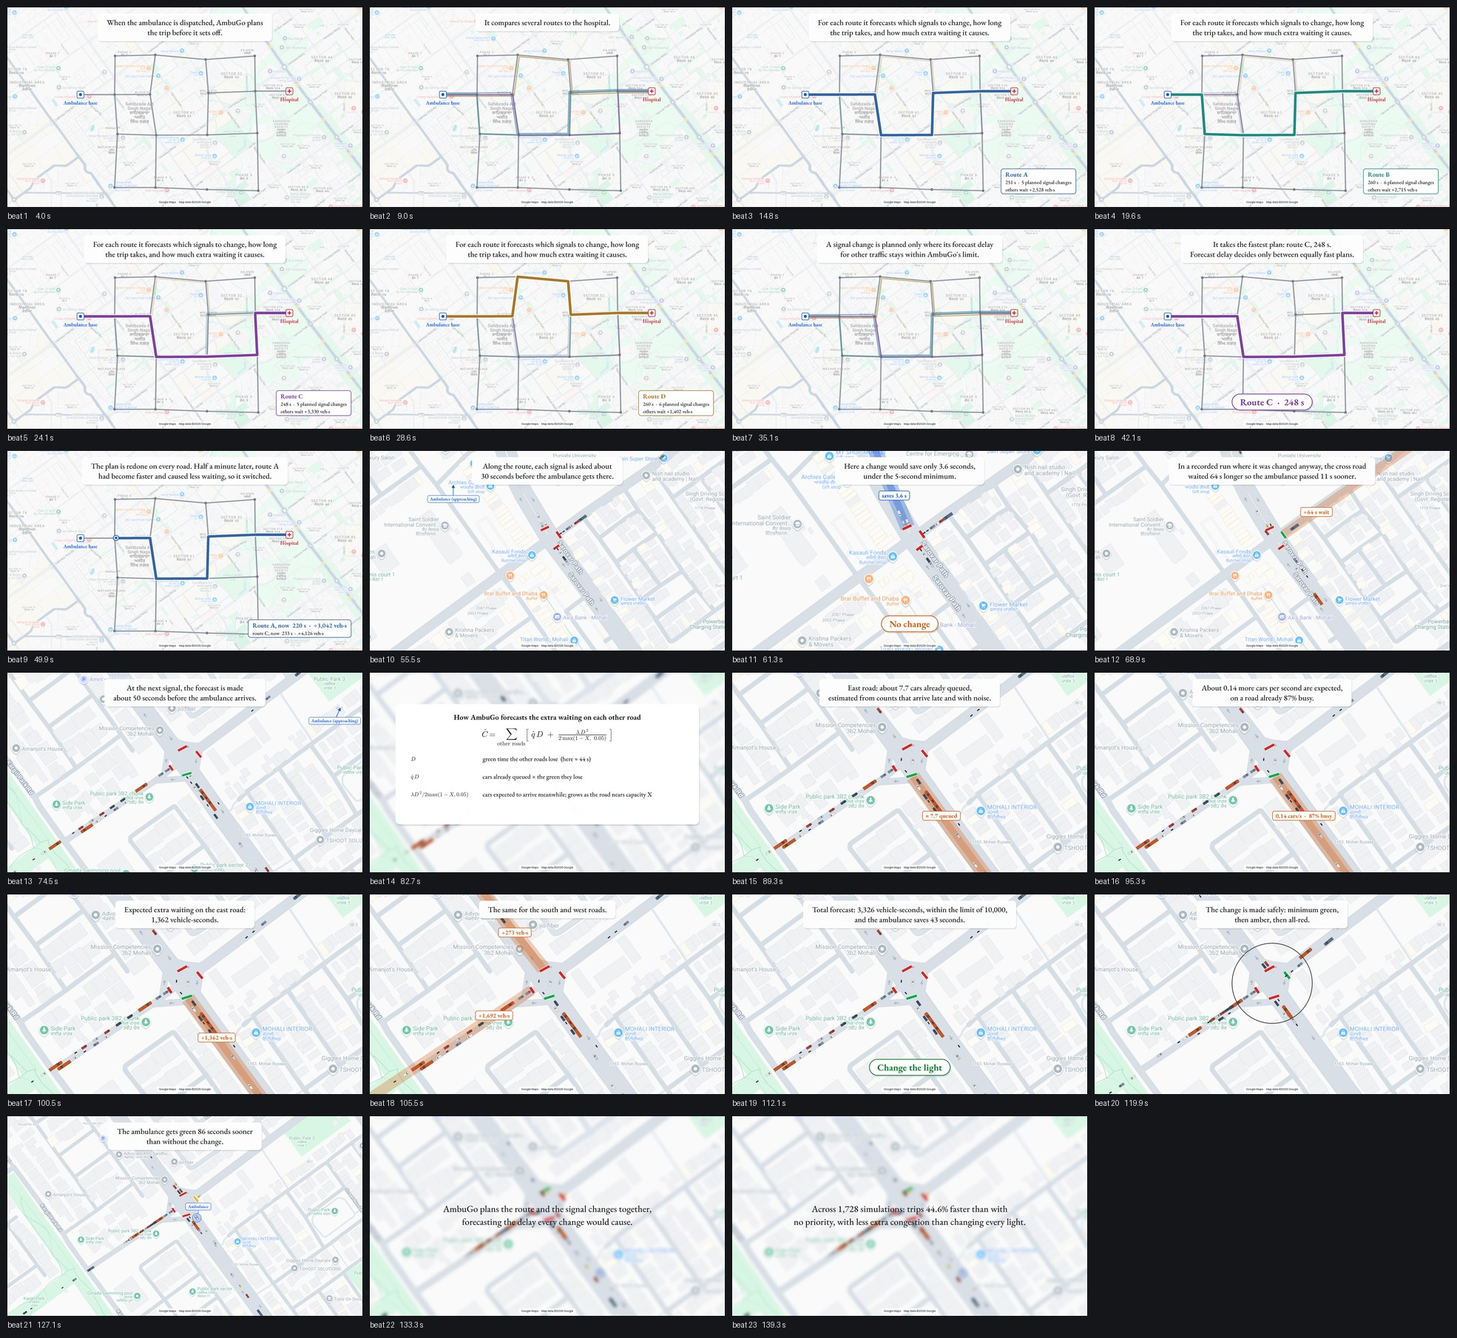
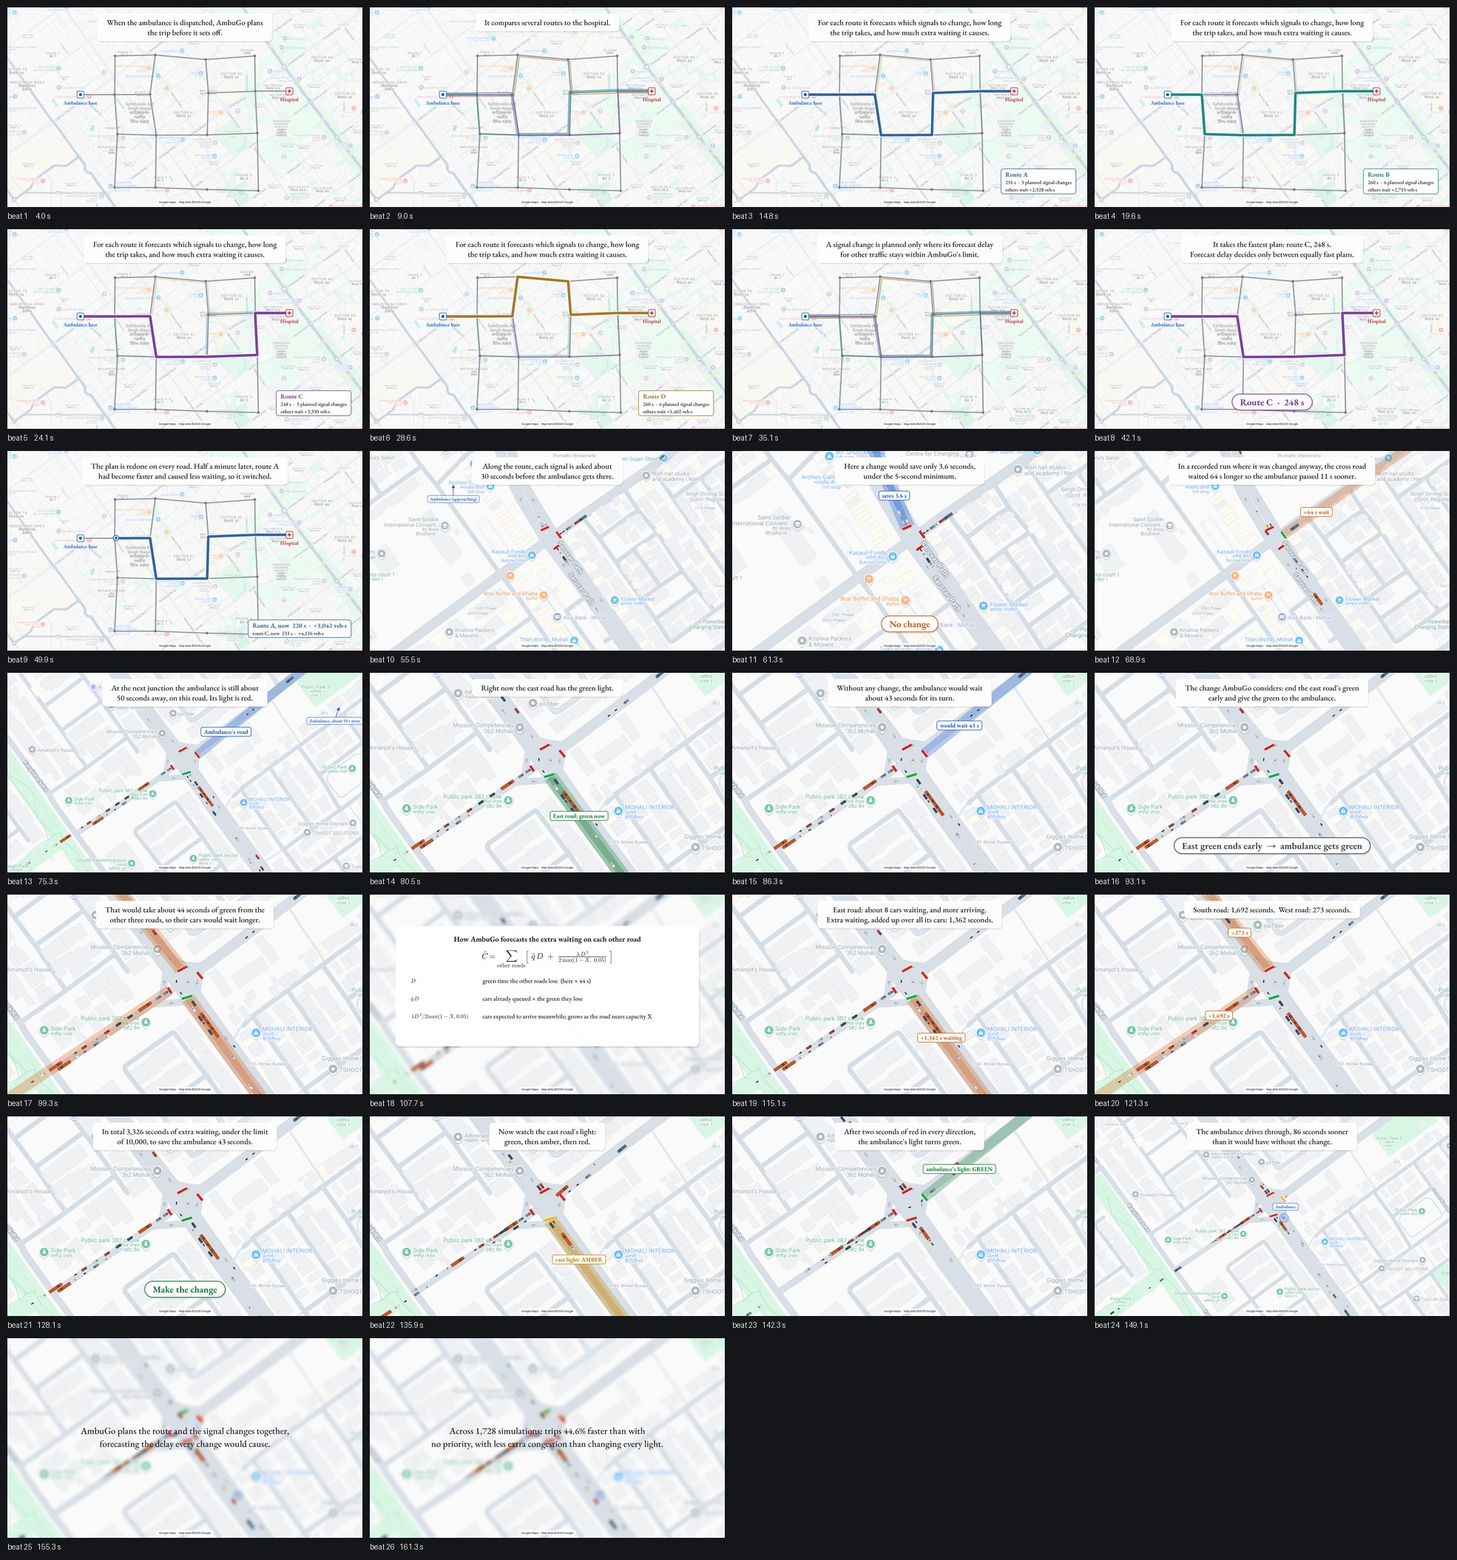
Plan film: rebuild Junction 2 in plain steps
Say where the ambulance is and that its light is red, that the east road has
green, what the change is (end east green early, give green to the
ambulance), its cost per road in seconds of waiting, then watch each light
switch with a live label. 5 new verifier checks (219 total).

Claude-Session: https://claude.ai/code/session_01LNKoc6Xn7SKC3VVHUyjiFx

diff --git a/ambugo_explainer/v9/planfilm.py b/ambugo_explainer/v9/planfilm.py
@@ -96,27 +96,38 @@ class Plan(Simple):
             M(8, "J11", "P2", [(0, 4091), (.8, 4170), (1, 4170)], ["In a recorded run where it was changed anyway, the cross road",
                                                                    "waited 64 s longer so the ambulance passed 11 s sooner."],
               [("road", J1_CROSS, COST, "+64 s wait")], zoom=1.05),
-            # ------------------------------------------------ junction 2: the delay forecast, one term at a time
-            M(5, "J21", "P3", [(0, 4120), (1, 4132)], ["At the next signal, the forecast is made", "about 50 seconds before the ambulance arrives."],
-              [("amb", "Ambulance")], zoom=1.05),
+            # ------------------------------------------------ junction 2: what the change is, what it costs, then watch it
+            M(6, "J21", "P3", [(0, 4118), (1, 4132)], ["At the next junction the ambulance is still about",
+                                                       "50 seconds away, on this road. Its light is red."],
+              [("road", J2_AMB, AMB, "Ambulance's road"), ("amb", "Ambulance", "Ambulance, about 50 s away")], zoom=.95),
+            M(5, "J21", "P3", [(0, 4132), (1, 4132)], ["Right now the east road has the green light."],
+              [("road", J2_EAST, GAIN, "East road: green now")]),
+            M(6, "J21", "P3", [(0, 4132), (1, 4132)], ["Without any change, the ambulance would wait",
+                                                       f"about {g2['nominal_wait']:.0f} seconds for its turn."],
+              [("road", J2_AMB, AMB, f"would wait {g2['nominal_wait']:.0f} s")]),
+            M(7, "J21", "P3", [(0, 4132), (1, 4132)], ["The change AmbuGo considers: end the east road's green",
+                                                       "early and give the green to the ambulance."],
+              verdict=("East green ends early  →  ambulance gets green", (70, 74, 80))),
+            M(6, "J21", "P3", [(0, 4132), (1, 4132)], [f"That would take about {g2['D']:.0f} seconds of green from the",
+                                                       "other three roads, so their cars would wait longer."],
+              [("road", J2_EAST, COST, None), ("road", J2_SOUTH, COST, None), ("road", J2_WEST, COST, None)]),
             M(9, "J21", "P3", [(0, 4132), (1, 4132)], [], card=True, eq=True),
-            M(6, "J21", "P3", [(0, 4132), (1, 4132)], [f"East road: about {E['q_hat']:.1f} cars already queued,",
-                                                       "estimated from counts that arrive late and with noise."],
-              [("road", J2_EAST, COST, f"≈ {E['q_hat']:.1f} queued")]),
-            M(6, "J21", "P3", [(0, 4132), (1, 4132)], [f"About {E['lam']:.2f} more cars per second are expected,",
-                                                       f"on a road already {E['X'] * 100:.0f}% busy."],
-              [("road", J2_EAST, COST, f"{E['lam']:.2f} cars/s  ·  {E['X'] * 100:.0f}% busy")]),
-            M(5, "J21", "P3", [(0, 4132), (1, 4132)], ["Expected extra waiting on the east road:",
-                                                       f"{E['term_queue'] + E['term_arrival']:,.0f} vehicle-seconds."],
-              [("road", J2_EAST, COST, f"+{E['term_queue'] + E['term_arrival']:,.0f} veh·s")]),
-            M(5, "J21", "P3", [(0, 4132), (1, 4132)], ["The same for the south and west roads."],
-              [("road", J2_SOUTH, COST, f"+{arms[J2_SOUTH]['term_queue'] + arms[J2_SOUTH]['term_arrival']:,.0f} veh·s"),
-               ("road", J2_WEST, COST, f"+{arms[J2_WEST]['term_queue'] + arms[J2_WEST]['term_arrival']:,.0f} veh·s")]),
-            M(7, "J21", "P3", [(0, 4132), (1, 4132)], [f"Total forecast: {g2['burden']:,.0f} vehicle-seconds, within the limit of 10,000,",
-                                                       f"and the ambulance saves {g2['benefit']:.0f} seconds."],
-              verdict=("Change the light", GAIN)),
-            M(8, "J21", "P3", [(0, 4132), (1, 4146)], ["The change is made safely: minimum green,", "then amber, then all-red."], [("junction", None)]),
-            M(7, "J21", "P3", [(0, 4146), (1, 4180)], ["The ambulance gets green 86 seconds sooner", "than without the change."],
+            M(7, "J21", "P3", [(0, 4132), (1, 4132)], [f"East road: about {E['q_hat']:.0f} cars waiting, and more arriving.",
+                                                       f"Extra waiting, added up over all its cars: {E['term_queue'] + E['term_arrival']:,.0f} seconds."],
+              [("road", J2_EAST, COST, f"+{E['term_queue'] + E['term_arrival']:,.0f} s waiting")]),
+            M(6, "J21", "P3", [(0, 4132), (1, 4132)],
+              [f"South road: {arms[J2_SOUTH]['term_queue'] + arms[J2_SOUTH]['term_arrival']:,.0f} seconds.  "
+               f"West road: {arms[J2_WEST]['term_queue'] + arms[J2_WEST]['term_arrival']:,.0f} seconds."],
+              [("road", J2_SOUTH, COST, f"+{arms[J2_SOUTH]['term_queue'] + arms[J2_SOUTH]['term_arrival']:,.0f} s"),
+               ("road", J2_WEST, COST, f"+{arms[J2_WEST]['term_queue'] + arms[J2_WEST]['term_arrival']:,.0f} s")]),
+            M(7, "J21", "P3", [(0, 4132), (1, 4132)], [f"In total {g2['burden']:,.0f} seconds of extra waiting, under the limit",
+                                                       f"of 10,000, to save the ambulance {g2['benefit']:.0f} seconds."],
+              verdict=("Make the change", GAIN)),
+            M(8, "J21", "P3", [(0, 4132), (1, 4141.5)], ["Now watch the east road's light:", "green, then amber, then red."],
+              [("road", J2_EAST, lambda t: self.light(J2_EAST, t)[1], lambda t: f"east light: {self.light(J2_EAST, t)[0]}")]),
+            M(6, "J21", "P3", [(0, 4141.5), (1, 4146)], ["After two seconds of red in every direction,", "the ambulance's light turns green."],
+              [("road", J2_AMB, lambda t: self.light(J2_AMB, t)[1], lambda t: f"ambulance's light: {self.light(J2_AMB, t)[0]}")]),
+            M(7, "J21", "P3", [(0, 4146), (1, 4180)], ["The ambulance drives through, 86 seconds sooner", "than it would have without the change."],
               [("amb", "Ambulance")], zoom=.85),
             # ------------------------------------------------ close
             M(6, "J21", "P3", [(0, 4180), (1, 4180)], [], card=["AmbuGo plans the route and the signal changes together,",
@@ -133,6 +144,14 @@ class Plan(Simple):
             s["ov"], s["key"] = None, "beat"
         self.scenes = S
         self._netbg = None
+
+    def light(self, e, t, j="J21", run="P3"):
+        mode, served, el, rq = self.runs[run].signal(j, t)
+        if served == e and mode == "green":
+            return "GREEN", (24, 128, 56)
+        if served == e and mode == "amber":
+            return "AMBER", (196, 132, 0)
+        return "RED", (197, 34, 31)
 
     # ------------------------------------------------------------------ the planning diagram
     def net_xy(self, xy):

diff --git a/ambugo_explainer/v9/verify.py b/ambugo_explainer/v9/verify.py
@@ -439,6 +439,17 @@ check("plan", "east road busy (X, %)", 87, 100 * {x["edge"]: x for x in gates[(4
 check("plan", "east arrivals shown (cars/s)", 0.14, {x["edge"]: x for x in gates[(4132, "J21")]["arms"]}["E_J22_J21"]["lam"], "gates.json", .005)
 check("plan", "green lost D shown (s)", 44, gates[(4132, "J21")]["D"], "gates.json", .5)
 
+# ------------------------------------------------------------------ plan film, junction 2 (plain-language beats)
+gg = gates[(4132, "J21")]
+ag = {x["edge"]: x for x in gg["arms"]}
+check("plan-J2", "east road 'about 8 cars waiting' (q̂ rounded)", 8, round(ag["E_J22_J21"]["q_hat"]), "gates.json", 0)
+check("plan-J2", "east road has green at the decision", "E_J22_J21", gg["signal_edge"], "gates.json")
+check("plan-J2", "ambulance 'about 50 s away' (free-flow ETA)", 50, gg["arrival"], "gates.json", 3)
+check("plan-J2", "all-red lasts 2 s before the ambulance's green", 2,
+      first(sg, "J21", 4132, "green", "E_J11_J21") - first(sg, "J21", 4132, "allred"), "P3 signals.json", 0)
+check("plan-J2", "ambulance's light red during 4118–4132", True,
+      all(not (sg.get((t, "J21"), (None, None))[0] == "green" and sg[(t, "J21")][1] == "E_J11_J21") for t in range(4118, 4133)), "P3 signals.json")
+
 # ------------------------------------------------------------------ report
 fails = [c for c in checks if not c["ok"]]
 out = HERE / "reports"

diff --git a/ambugo_explainer/v9/simplefilm.py b/ambugo_explainer/v9/simplefilm.py
@@ -157,7 +157,8 @@ class Simple(MapFilm):
         run = self.runs[sc["run"]]
         a_in = ease(min(1.0, u * sc["dur"] / .45))                 # every beat fades its own overlay in
         v, to, wp = self.mpane(sc, t, zoom)
-        for h in sc["hl"]:
+        hls = [tuple(x(t) if callable(x) else x for x in h) for h in sc["hl"]]     # labels/colours may follow the clock
+        for h in hls:
             if h[0] == "road":
                 self.road_glow(v, wp, to, h[1], h[2], a_in)
         self.bars(v, wp, run, sc["j"], t, to, zoom)
@@ -168,11 +169,12 @@ class Simple(MapFilm):
         ui = View(W, H, 0, 0, 1)
         ui.im = Image.new("RGBA", (W * SS, H * SS), (0, 0, 0, 0))
         ui.d = ImageDraw.Draw(ui.im)
-        for h in sc["hl"]:
+        for h in hls:
             if h[0] == "road" and h[3]:
                 self.road_label(ui, wp, to, h[1], h[2], h[3], a_in)
             elif h[0] == "amb":
-                self.amb_tag(ui, v, to, sc["j"], sc["run"], t, h[1], a_in, off_text="Ambulance (approaching)")
+                self.amb_tag(ui, v, to, sc["j"], sc["run"], t, h[1], a_in,
+                             off_text=h[2] if len(h) > 2 else "Ambulance (approaching)")
             elif h[0] == "junction":
                 p = to(wp.C)
                 r = 190 * zoom

diff --git a/ambugo_explainer/v9/reports/PLAN_STORYBOARD.md b/ambugo_explainer/v9/reports/PLAN_STORYBOARD.md
@@ -1,6 +1,6 @@
 # AmbuGo v9 plan film: storyboard and voiceover
 
-* **File:** `output/AmbuGo_v9_Plan.mp4`, 1920×1080, 30 fps, 2:20.5 (140.5 s), no audio. Render it with `python3 planfilm.py --jobs 4`.
+* **File:** `output/AmbuGo_v9_Plan.mp4`, 1920×1080, 30 fps, 2:42.5 (162.5 s), no audio. Render it with `python3 planfilm.py --jobs 4`.
 * **What it adds over the simple cut:**
   * the trip is planned at dispatch: route and signal changes are chosen together, using the delay forecast;
   * the forecast model itself (Eq. 20) is shown term by term with the logged values.
@@ -29,23 +29,26 @@
 | 10 | 0:51.5–0:56.5 | Junction 1 map, 4,079 → 4,091 | Along the route, each signal is asked about 30 seconds before the ambulance gets there. | ambulance |
 | 11 | 0:56.5–1:02.5 | J1, paused | Here a change would save only 3.6 seconds, under the 5-second minimum. | ambulance's road "saves 3.6 s" + verdict "No change" |
 | 12 | 1:02.5–1:10.5 | J1, JFAST run 4,091 → 4,170 | In a recorded run where it was changed anyway, the cross road waited 64 s longer so the ambulance passed 11 s sooner. | cross road "+64 s wait" |
-| 13 | 1:10.5–1:15.5 | Junction 2 map, 4,120 → 4,132 | At the next signal, the forecast is made about 50 seconds before the ambulance arrives. | ambulance |
-| 14 | 1:15.5–1:24.5 | card over blurred map | (card) How AmbuGo forecasts the extra waiting on each other road: Eq. 20, with D (green lost, ≈ 44 s), q̂·D (cars queued × green lost), λD²/2max(1−X, 0.05) (expected arrivals, growing as the road nears capacity) | the card |
-| 15 | 1:24.5–1:30.5 | J2, paused 4,132 | East road: about 7.7 cars already queued, estimated from counts that arrive late and with noise. | east road "≈ 7.7 queued" |
-| 16 | 1:30.5–1:36.5 | J2 | About 0.14 more cars per second are expected, on a road already 87% busy. | east road "0.14 cars/s · 87% busy" |
-| 17 | 1:36.5–1:41.5 | J2 | Expected extra waiting on the east road: 1,362 vehicle-seconds. | east road "+1,362 veh·s" |
-| 18 | 1:41.5–1:46.5 | J2 | The same for the south and west roads. | south "+1,692", west "+273" |
-| 19 | 1:46.5–1:53.5 | J2 | Total forecast: 3,326 vehicle-seconds, within the limit of 10,000, and the ambulance saves 43 seconds. | verdict "Change the light" |
-| 20 | 1:53.5–2:01.5 | J2, 4,132 → 4,146 | The change is made safely: minimum green, then amber, then all-red. | junction ring |
-| 21 | 2:01.5–2:08.5 | J2, 4,146 → 4,180 | The ambulance gets green 86 seconds sooner than without the change. | ambulance |
-| 22 | 2:08.5–2:14.5 | blurred | AmbuGo plans the route and the signal changes together, forecasting the delay every change would cause. | — |
-| 23 | 2:14.5–2:20.5 | blurred | Across 1,728 simulations: trips 44.6% faster than with no priority, with less extra congestion than changing every light. | — |
+| 13 | 1:10.5–1:16.5 | Junction 2 map, 4,118 → 4,132 | At the next junction the ambulance is still about 50 seconds away, on this road. Its light is red. | ambulance's road (blue) + edge marker "Ambulance, about 50 s away" |
+| 14 | 1:16.5–1:21.5 | J2, paused 4,132 | Right now the east road has the green light. | east road (green), "East road: green now" |
+| 15 | 1:21.5–1:27.5 | J2 | Without any change, the ambulance would wait about 43 seconds for its turn. | ambulance's road, "would wait 43 s" |
+| 16 | 1:27.5–1:34.5 | J2 | The change AmbuGo considers: end the east road's green early and give the green to the ambulance. | pill "East green ends early → ambulance gets green" |
+| 17 | 1:34.5–1:40.5 | J2 | That would take about 44 seconds of green from the other three roads, so their cars would wait longer. | the three other roads (orange) |
+| 18 | 1:40.5–1:49.5 | card over blurred map | (card) How AmbuGo forecasts the extra waiting on each other road: Eq. 20, with each term in words | the card |
+| 19 | 1:49.5–1:56.5 | J2 | East road: about 8 cars waiting, and more arriving. Extra waiting, added up over all its cars: 1,362 seconds. | east road, "+1,362 s waiting" |
+| 20 | 1:56.5–2:02.5 | J2 | South road: 1,692 seconds. West road: 273 seconds. | south and west roads |
+| 21 | 2:02.5–2:09.5 | J2 | In total 3,326 seconds of extra waiting, under the limit of 10,000, to save the ambulance 43 seconds. | verdict "Make the change" |
+| 22 | 2:09.5–2:17.5 | J2, 4,132 → 4,141.5 (≈1.2×) | Now watch the east road's light: green, then amber, then red. | east road, coloured by its live light; label "east light: GREEN / AMBER / RED" |
+| 23 | 2:17.5–2:23.5 | J2, 4,141.5 → 4,146 | After two seconds of red in every direction, the ambulance's light turns green. | ambulance's road, label "ambulance's light: RED / GREEN" |
+| 24 | 2:23.5–2:30.5 | J2, 4,146 → 4,180 | The ambulance drives through, 86 seconds sooner than it would have without the change. | ambulance |
+| 25 | 2:30.5–2:36.5 | blurred | AmbuGo plans the route and the signal changes together, forecasting the delay every change would cause. | — |
+| 26 | 2:36.5–2:42.5 | blurred | Across 1,728 simulations: trips 44.6% faster than with no priority, with less extra congestion than changing every light. | — |
 
 **Sources.**
 
 * The plan numbers come from `plans.json` (the logged candidate table at 4,065 s and 4,091 s).
 * The forecast-model numbers come from `gates.json` (J21 at 4,132 s).
-* All numbers are checked by `verify.py`, section `plan` (214 checks in total, 0 failed).
+* All numbers are checked by `verify.py`, section `plan` (219 checks in total, 0 failed).
 
 **The planning diagram.** It is drawn over a faded Google Maps view of Mohali as a schematic of the 16-junction district, not to map scale.
 
@@ -61,14 +64,17 @@
 10. Each light along the route is asked about thirty seconds before the ambulance gets there.
 11. At this one, a change would save less than four seconds, not enough to be worth it.
 12. In a recorded run where the light was changed anyway, the cross road waited an extra minute, to get the ambulance through eleven seconds sooner.
-13. At the next light, the forecast is made almost a minute ahead.
-14. Here is the forecast. For every other road, it multiplies the cars already queued by the green time they would lose. Then it adds the cars expected to arrive in that time, which counts more heavily on roads that are already close to capacity.
-15. On the east road, about eight cars are already waiting. AmbuGo estimates this from sensor counts that arrive late and with noise.
-16. About one more car arrives every seven seconds, on a road that is already almost ninety percent busy.
-17. Together, that is about thirteen hundred and sixty vehicle-seconds of extra waiting.
-18. The same calculation is made for the south and west roads.
-19. In total about thirty-three hundred vehicle-seconds, well within the limit, and the ambulance saves forty-three seconds. So the light changes.
-20. It changes safely: the current green finishes its minimum, then amber, then all-red.
-21. The ambulance gets its green eighty-six seconds sooner.
-22. So AmbuGo plans the route and the light changes together, and forecasts the delay every change would cause.
-23. Across all the simulations, trips were forty-five percent faster than with no priority, with less extra congestion than changing every light.
+13. At the next junction, the ambulance is still about fifty seconds away, and its light is red.
+14. Right now, the east road has the green.
+15. Without any change, the ambulance would wait about forty-three seconds.
+16. So AmbuGo considers a change: end the east road's green early, and give the green to the ambulance.
+17. But that takes about forty-four seconds of green away from the other three roads.
+18. Here is how it forecasts the cost. For each road, it takes the cars already waiting, times the green they lose, plus the cars that will arrive meanwhile. That last part counts more on roads that are already busy.
+19. On the east road, about eight cars are waiting and more are arriving. Added up over all of them, that is about thirteen hundred and sixty seconds of extra waiting.
+20. The south road adds about seventeen hundred, and the west road under three hundred.
+21. In total about thirty-three hundred seconds of extra waiting, well under the limit, to save the ambulance forty-three seconds. So the change is made.
+22. Watch the east road's light: green, then amber, then red.
+23. After two seconds of red in every direction, the ambulance's light turns green.
+24. The ambulance drives through, eighty-six seconds sooner than it otherwise would have.
+25. So AmbuGo plans the route and the light changes together, and forecasts the delay every change would cause.
+26. Across all the simulations, trips were forty-five percent faster than with no priority, with less extra congestion than changing every light.

diff --git a/ambugo_explainer/v9/reports/VERIFICATION.md b/ambugo_explainer/v9/reports/VERIFICATION.md
@@ -1,6 +1,6 @@
 # Numerical verification report
 
-Generated by `python verify.py`. **214 checks, 0 failed.**
+Generated by `python verify.py`. **219 checks, 0 failed.**
 
 Every number printed in the film is listed with the value recomputed from the logged replay or the archive.
 Tolerance is the display rounding unless the row is an exact recomputation of a logged quantity.
@@ -221,3 +221,8 @@ Tolerance is the display rounding unless the row is an exact recomputation of a 
 | plan | east road busy (X, %) | 87 | 86.6064 | gates.json | ✓ |
 | plan | east arrivals shown (cars/s) | 0.14 | 0.1398 | gates.json | ✓ |
 | plan | green lost D shown (s) | 44 | 44.1945 | gates.json | ✓ |
+| plan-J2 | east road 'about 8 cars waiting' (q̂ rounded) | 8 | 8.0000 | gates.json | ✓ |
+| plan-J2 | east road has green at the decision | E_J22_J21 | E_J22_J21 | gates.json | ✓ |
+| plan-J2 | ambulance 'about 50 s away' (free-flow ETA) | 50 | 52.5777 | gates.json | ✓ |
+| plan-J2 | all-red lasts 2 s before the ambulance's green | 2 | 2.0000 | P3 signals.json | ✓ |
+| plan-J2 | ambulance's light red during 4118–4132 | True | True | P3 signals.json | ✓ |

diff --git a/ambugo_explainer/v9/README.md b/ambugo_explainer/v9/README.md
@@ -16,7 +16,7 @@ A 2 min 25 s, 1080p explanatory replay of one archived AmbuGo v9 JSEL episode on
 
 ## Plan film (latest cut)
 
-`output/AmbuGo_v9_Plan.mp4` (140.5 s) adds two things to the simple cut, keeping one caption and one highlight per beat:
+`output/AmbuGo_v9_Plan.mp4` (162.5 s) adds two things to the simple cut, keeping one caption and one highlight per beat:
 
 * the trip is planned at dispatch, with route and signal changes chosen together;
 * the forecast model (Eq. 20) is explained term by term with the logged values.
@@ -72,7 +72,7 @@ python3 mapfilm.py --jobs 4
 
 Requirements: Python ≥ 3.12, `numpy`, `pillow`, `matplotlib`, `fonttools`, `sumolib` 1.28.0, and `ffmpeg` with libx264. The fonts are in `../inputs/fonts`; DejaVu is used as a glyph fallback.
 
-Check every on-screen number in both films (214 checks, exit code 1 on any failure):
+Check every on-screen number in both films (219 checks, exit code 1 on any failure):
 
 ```bash
 python3 verify.py
